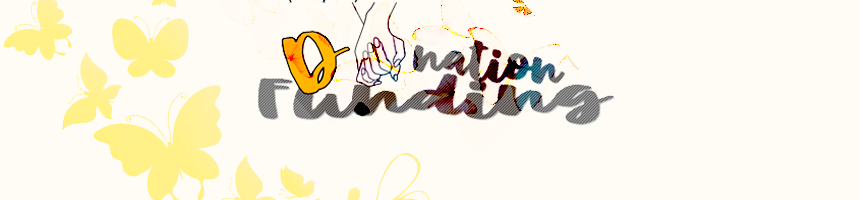
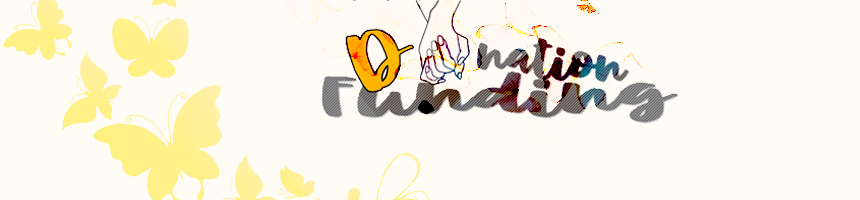
배너

diff --git a/DoFunding/src/main/webapp/resources/product.css b/DoFunding/src/main/webapp/resources/product.css
@@ -32,14 +32,12 @@ ul,  li, a {
 }
 
 .top-banner-wrap {  /* 실제 배너가 주어지면 수정 가능 */
-	background: url(../images/banner.png) 0 no-repeat;
-	/* display: flex;
+	display: flex;
 	flex-flow: row nowrap;
-	align-items: center;  수직으로 중앙 정렬
-	width: 100%;  banner의 크기를 설정
-	margin: 10px auto;  margin 10px을 주고 중앙 정렬
-	height: 100px;
-	border: 1px solid #555; */
+	align-items: center;  /* 수직으로 중앙 정렬 */
+	width: 100%;  /* banner의 크기를 설정 */
+	margin: 0 auto; /*  margin 0px을 주고 중앙 정렬 */
+	height: 300px;
 }
 .top-banner-wrap h1 {
 	width: 100%;
